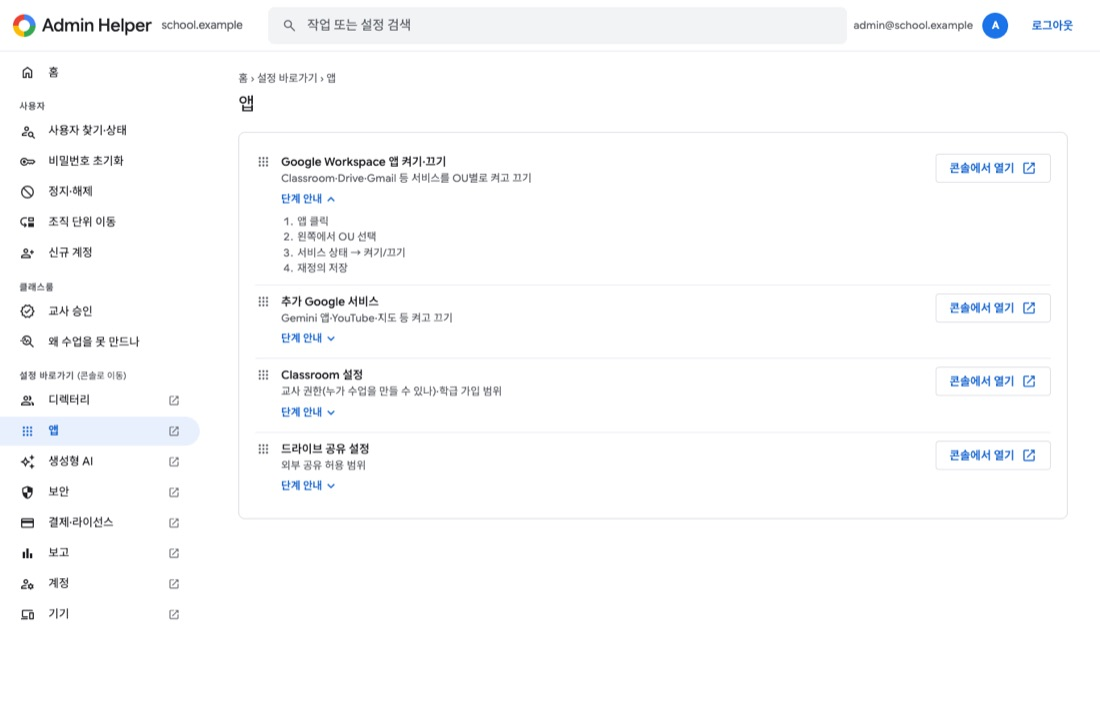
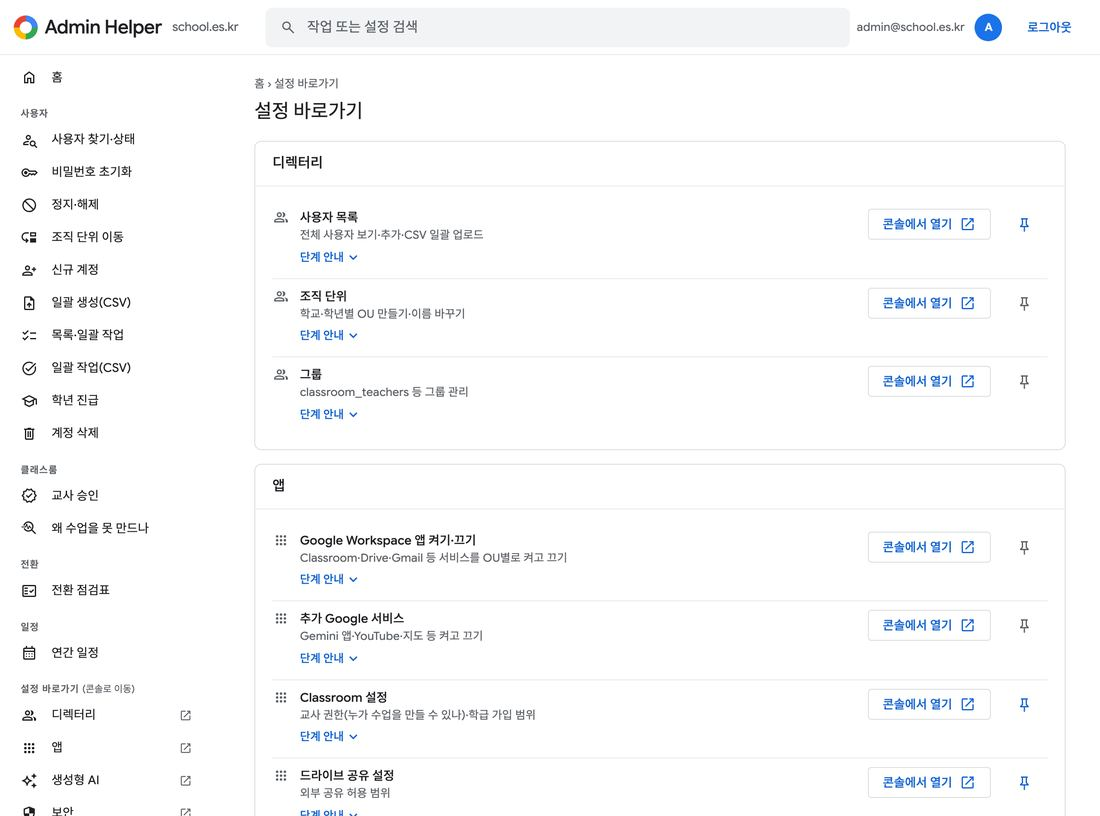
가이드 캡처 새로 찍음: 홈(이달의 할 일·핀 바로가기)·설정 전체 보기·휴대폰, 그림 주소 adhelp.kangt.kr

diff --git a/public/guide/index.html b/public/guide/index.html
@@ -31,13 +31,13 @@ h1{font-weight:500}h2{margin-top:40px;font-weight:500}code{font-family:Menlo,mon
 <li>시제품은 구글 "테스트 모드"라서 "확인되지 않은 앱" 화면이 한 번 나옵니다. <b>고급 → Admin Helper(안전하지 않음)로 이동</b>을 누르면 됩니다. 지금은 등록된 테스트 계정만 로그인할 수 있습니다.</li>
 <li>권한 목록에서 모두 선택 → 계속. 로그인하면 바로 작업 화면입니다.</li>
 </ol>
-<p><img src="https://aiep-admin-helper.vercel.app/guide/01-login.jpg" alt="로그인 전 화면: 가운데 카드와 Google 관리자 계정으로 로그인 버튼" width="640"></p>
+<p><img src="https://adhelp.kangt.kr/guide/01-login.jpg" alt="로그인 전 화면: 가운데 카드와 Google 관리자 계정으로 로그인 버튼" width="640"></p>
 
 <h2>3. 화면 구성</h2>
 <p>어드민 콘솔과 같은 구성입니다. 위쪽 검색 바, 왼쪽 메뉴(사용자 · 클래스룸 · 전환 · 일정 · 설정 바로가기), 오른쪽 작업 화면. 흐름은 "사람 먼저"입니다. 홈에서 사용자를 찾아 고르면 상태 카드가 열리고, 카드 아래 버튼으로 그 사람에게 할 일을 바로 합니다. 위쪽 검색 바에 "비번", "정지"처럼 치면 작업과 바로가기가 걸러집니다. 홈에는 학사 달력에 맞춘 「이달의 할 일」과, 핀으로 고정해 바꿀 수 있는 「자주 쓰는 바로가기」가 함께 보입니다.</p>
-<p><img src="https://aiep-admin-helper.vercel.app/guide/02-main.jpg" alt="홈 화면: 상단 바·왼쪽 메뉴, 사용자 찾기와 사용자 카드, 설정 바로가기" width="640"></p>
+<p><img src="https://adhelp.kangt.kr/guide/02-main.jpg" alt="홈 화면: 상단 바·왼쪽 메뉴, 사용자 찾기, 이달의 할 일, 자주 쓰는 바로가기" width="640"></p>
 <p>휴대폰에서도 같은 화면이 한 줄로 배치됩니다.</p>
-<p><img src="https://aiep-admin-helper.vercel.app/guide/07-mobile.jpg" alt="휴대폰 홈 화면: 왼쪽 메뉴는 상단 메뉴 버튼으로 여는 서랍으로 숨김" width="260"></p>
+<p><img src="https://adhelp.kangt.kr/guide/07-mobile.jpg" alt="휴대폰 홈 화면: 왼쪽 메뉴는 상단 메뉴 버튼으로 여는 서랍으로 숨김" width="260"></p>
 
 <h2>4. 자주 하는 작업 14개</h2>
 <table>
@@ -57,9 +57,9 @@ h1{font-weight:500}h2{margin-top:40px;font-weight:500}code{font-family:Menlo,mon
 <tr><td>전환 점검표</td><td>도메인 전환(콘텐츠 전송)과 학년 초 준비에 필요한 설정 8가지(드라이브 외부 공유, 클래스룸 가입 범위·교사 권한, 2단계 인증 강제, Gmail, Takeout, 미접속·정지 계정, 다음 학년도 조직)를 한 화면에서 됨·주의·막힘·직접 확인으로 보여 주고, 결과를 글로 복사해 교육청에 보낼 수 있습니다. 읽기만 하고 설정은 바꾸지 않습니다.</td><td>드라이브·클래스룸·보안·Takeout 설정 화면과 사용자·조직 단위 목록을 하나씩 열어 봐야 합니다</td></tr>
 <tr><td>연간 일정</td><td>초등 학사 일정에 맞춰 달마다 관리자가 할 일(12월 계정 점검, 2월 학년 진급·신입생 계정, 3월 클래스룸 세팅 등)을 12개월 카드로 보여 주고, 항목마다 [열기]로 해당 작업 화면으로 바로 갑니다. 이번 달은 파란 테두리로 표시합니다.</td><td>콘솔에는 없습니다. 언제 무엇을 해야 하는지 담당자가 따로 챙겨야 합니다</td></tr>
 </table>
-<p><img src="https://aiep-admin-helper.vercel.app/guide/04-lookup-card.jpg" alt="사용자 카드: 상태 배지, 정보표, 아래 작업 버튼 줄" width="640"></p>
+<p><img src="https://adhelp.kangt.kr/guide/04-lookup-card.jpg" alt="사용자 카드: 상태 배지, 정보표, 아래 작업 버튼 줄" width="640"></p>
 <p>모든 쓰기 작업은 실행 전에 "누구에게 무엇을 하는지" 한 문장으로 확인을 받습니다. 정지·초기화처럼 되돌리기 어려운 일은 빨간 버튼입니다.</p>
-<p><img src="https://aiep-admin-helper.vercel.app/guide/06-confirm.jpg" alt="실행 전 확인 창: 누구에게 무엇을 하는지 한 문장과 취소·승인 버튼" width="640"></p>
+<p><img src="https://adhelp.kangt.kr/guide/06-confirm.jpg" alt="실행 전 확인 창: 누구에게 무엇을 하는지 한 문장과 취소·승인 버튼" width="640"></p>
 
 <h2>5. 클래스룸 진단: 왜 수업을 못 만드나</h2>
 <p>교사가 "클래스룸에서 수업 만들기가 안 돼요"라고 할 때 원인은 보통 넷 중 하나입니다. 이 화면이 순서대로 점검합니다.</p>
@@ -70,11 +70,11 @@ h1{font-weight:500}h2{margin-top:40px;font-weight:500}code{font-family:Menlo,mon
 <li><b>Classroom 서비스 상태(정책)</b> — 그 교사가 속한 OU에 Classroom이 켜져 있는지. 켜고 끄는 것은 API가 지원하지 않아 해당 콘솔 화면으로 바로 보냅니다.</li>
 <li><b>라이선스</b> — 참고용. Classroom은 라이선스 없이도 됩니다.</li>
 </ol>
-<p><img src="https://aiep-admin-helper.vercel.app/guide/05-diagnose.jpg" alt="클래스룸 진단 카드: 단계별 통과·문제 배지와 그 자리에서 고치는 버튼" width="640"></p>
+<p><img src="https://adhelp.kangt.kr/guide/05-diagnose.jpg" alt="클래스룸 진단 카드: 단계별 통과·문제 배지와 그 자리에서 고치는 버튼" width="640"></p>
 
 <h2>6. 설정 바로가기</h2>
 <p>API로 바꿀 수 없는 설정(앱 켜기·끄기, Gemini 접근, 드라이브 외부 공유, 비밀번호 정책 등)은 "어느 화면에서 무엇을 누르는지" 단계 안내와 함께 콘솔의 정확한 화면으로 바로 보냅니다. 18개 항목이며 실제 콘솔 또는 구글 도움말의 바로가기로 주소를 확인했습니다. 크롬에 계정이 여러 개 로그인돼 있어도 로그인한 관리자 계정으로 바로 열리게 했습니다.</p>
-<p><img src="https://aiep-admin-helper.vercel.app/guide/02-main-settings.jpg" alt="설정 바로가기 앱 묶음: 항목별 콘솔에서 열기와 단계 안내" width="640"></p>
+<p><img src="https://adhelp.kangt.kr/guide/02-main-settings.jpg" alt="설정 바로가기 전체 보기: 항목별 콘솔에서 열기·단계 안내·홈 고정 핀" width="640"></p>
 
 <h2>7. 보안과 개인정보 설계</h2>
 <ul>
